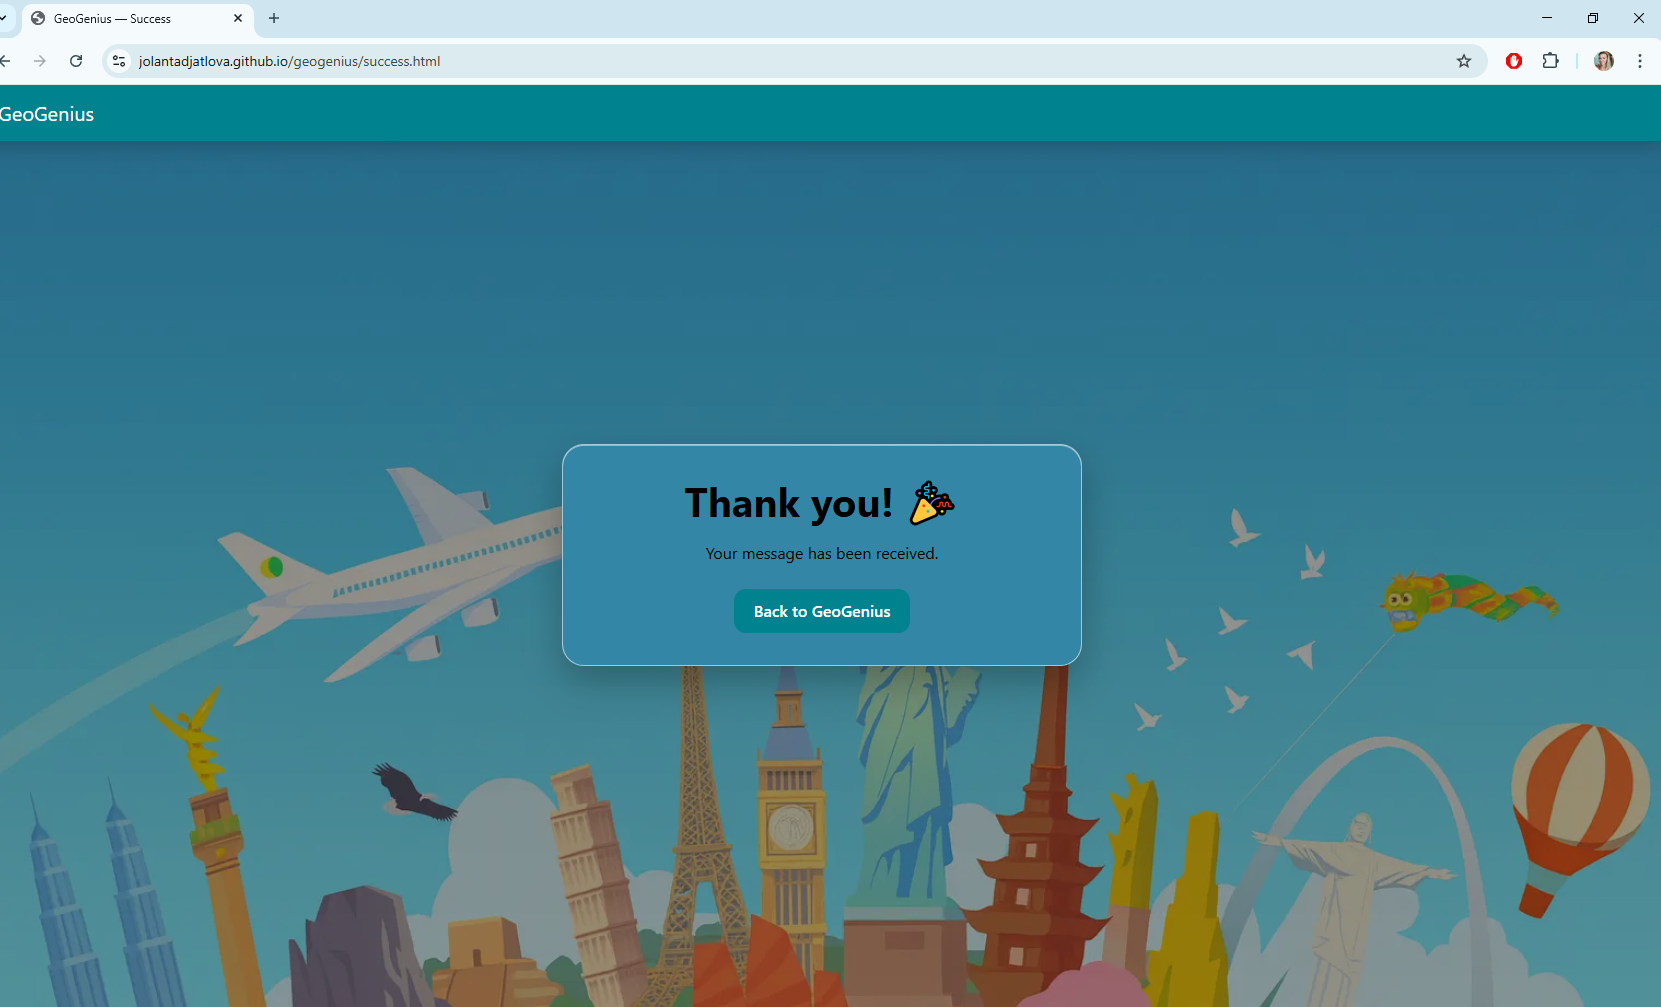
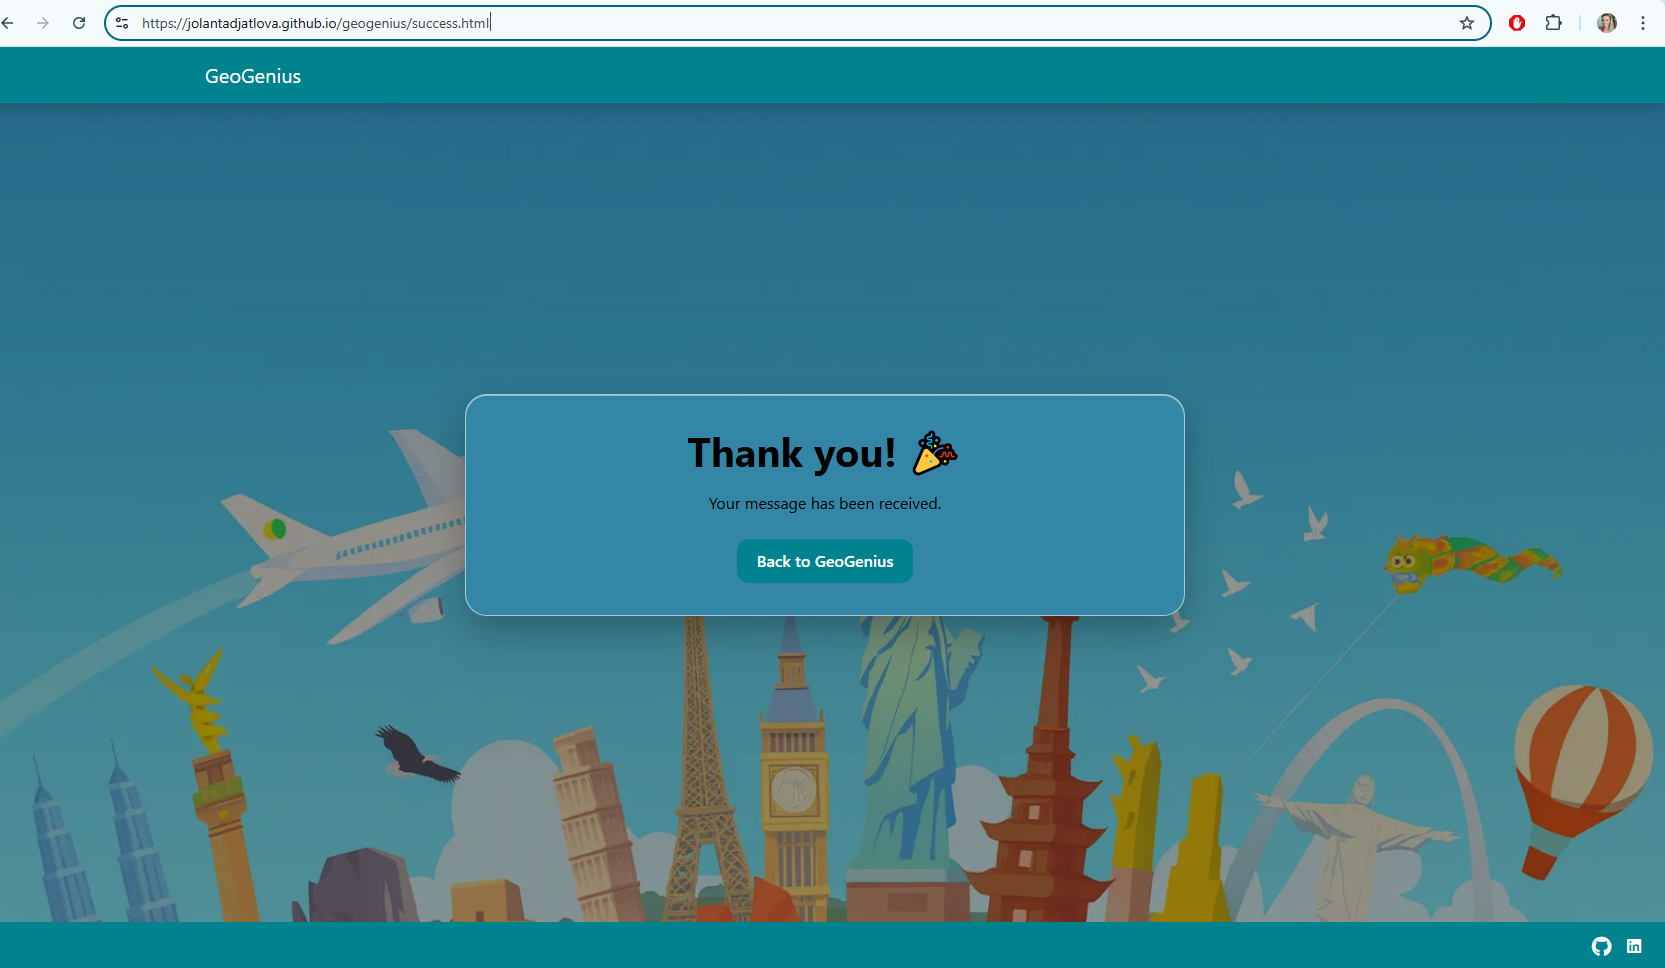
Fix footer on 404.html

diff --git a/404.html b/404.html
@@ -39,7 +39,7 @@
     <!-- Footer -->
 
     <footer class="site-footer mt-auto">
-      <div class="container d-flex justify-content-center gap-4">
+      <div class="container-fluid d-flex justify-content-center justify-content-md-end gap-3 px-4">
         <a
           href="https://github.com/jolantadjatlova"
           target="_blank"
